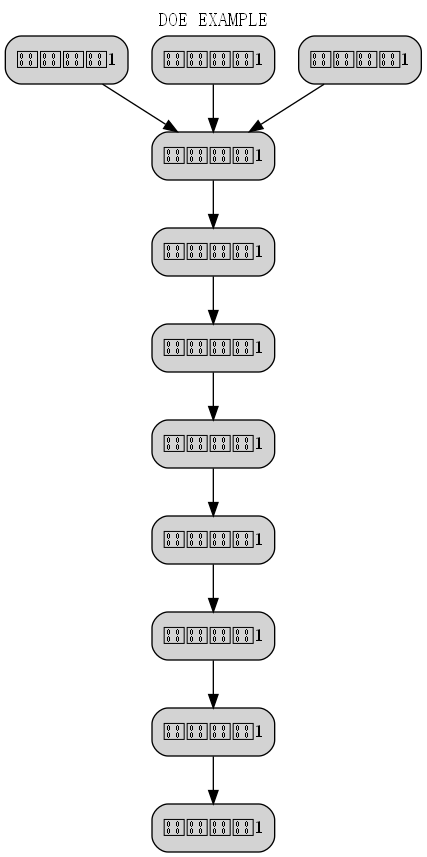
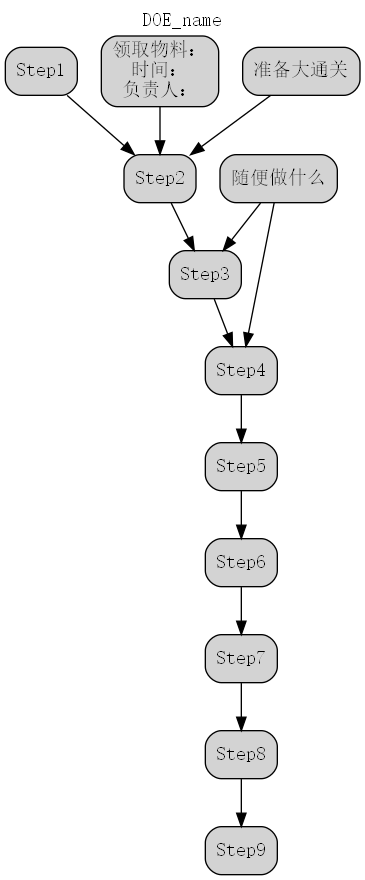
add main to run

Changed region(s): [[0.0, 0.0, 0.9945, 1.0], [0.6932, 0.3034, 0.7233, 0.3641]]

diff --git a/Flowchart5.py b/Flowchart5.py
@@ -1,48 +1,49 @@
 import xlrd
 import graphviz
+def create_graph_from_excel(file_path, sheet_name, DOE_name):
+    graph = graphviz.Digraph()
+    graph.graph_attr['label'] = DOE_name
+    graph.graph_attr['labelloc'] = 't'
+    graph.graph_attr['fontname'] = 'SimSun'  # 设置字体为宋体或其他支持中文的字体
+    # ExcelFileName = 'example.xls'
+    workbook = xlrd.open_workbook(file_path)
+    worksheet = workbook.sheet_by_name(sheet_name)
 
-graph = graphviz.Digraph()
-graph.graph_attr['label'] = 'DOE EXAMPLE'
-graph.graph_attr['labelloc'] = 't'
-graph.graph_attr['fontname'] = 'SimSun'  # 设置字体为宋体或其他支持中文的字体
-ExcelFileName = 'example.xls'
-workbook = xlrd.open_workbook(ExcelFileName)
-worksheet = workbook.sheet_by_name("Sheet1")
+    num_rows = worksheet.nrows
+    num_cols = worksheet.ncols
 
-num_rows = worksheet.nrows
-num_cols = worksheet.ncols
+    result_data = []
+    for curr_row in range(0, num_rows, 1):
+        row_data = []
 
-result_data = []
-for curr_row in range(0, num_rows, 1):
-    row_data = []
+        for curr_col in range(0, num_cols, 1):
+            data = worksheet.cell_value(curr_row, curr_col)  # Read the data in the current cell
+            # print(data)
+            data = data.encode('utf-8').decode('utf-8')
+            row_data.append(data)
 
-    for curr_col in range(0, num_cols, 1):
-        data = worksheet.cell_value(curr_row, curr_col)  # Read the data in the current cell
-        # print(data)
-        row_data.append(data)
-
-    result_data.append(row_data)
-
-
-node = result_data
-noderesult = []*(num_rows*num_cols)
-for i in range(len(result_data)):
-    for j in range(len(result_data[0])):
-        node[i][j] = str(result_data[i][j])
-        if((node[i][j])!=""):
-            graph.node(node[i][j], style="rounded, filled", shape="box") #在有向图中增加节点，node 是list格式
-            noderesult.append(node[i][j])
-
-for t in range( len(node[0])-1):
-    if (node[0][t]!=''):
-        graph.edge(node[0][t], node[0][t+1], dir="forward", arrowhead="normal", style="")
+        result_data.append(row_data)
 
 
+    node = result_data
+    noderesult = []*(num_rows*num_cols)
+    for i in range(len(result_data)):
+        for j in range(len(result_data[0])):
+            node[i][j] = str(result_data[i][j])
+            if((node[i][j])!=""):
+                graph.node(node[i][j], style="rounded, filled", shape="box", fontname="SimSun") #在有向图中增加节点，node 是list格式
+                noderesult.append(node[i][j])
 
-for p in range(len(result_data[0])): #列
-    for q in range(1, len(result_data)): #行
-        if(node[q][p]!=''):
-            graph.edge(node[q][p], node[0][p+1], dir="forward", arrowhead="normal", style="")
+    for t in range( len(node[0])-1):
+        if (node[0][t]!=''):
+            graph.edge(node[0][t], node[0][t+1], dir="forward", arrowhead="normal", style="")
 
 
-graph.render('example1_graph', format='png')
+
+    for p in range(len(result_data[0])): #列
+        for q in range(1, len(result_data)): #行
+            if(node[q][p]!=''):
+                graph.edge(node[q][p], node[0][p+1], dir="forward", arrowhead="normal", style="")
+
+
+    graph.render('example1_graph', format='png')

diff --git a/mian.py b/mian.py
@@ -1,0 +1,10 @@
+from Flowchart5 import create_graph_from_excel
+
+def main():  #启动
+    file_path = 'E:\git clone\excel-to-flowchart\example.xls'
+    sheet_name = 'Sheet1'
+    DOE_name = 'DOE_name'
+    create_graph_from_excel(file_path, sheet_name,DOE_name)
+
+if __name__ == "__main__":
+    main()
